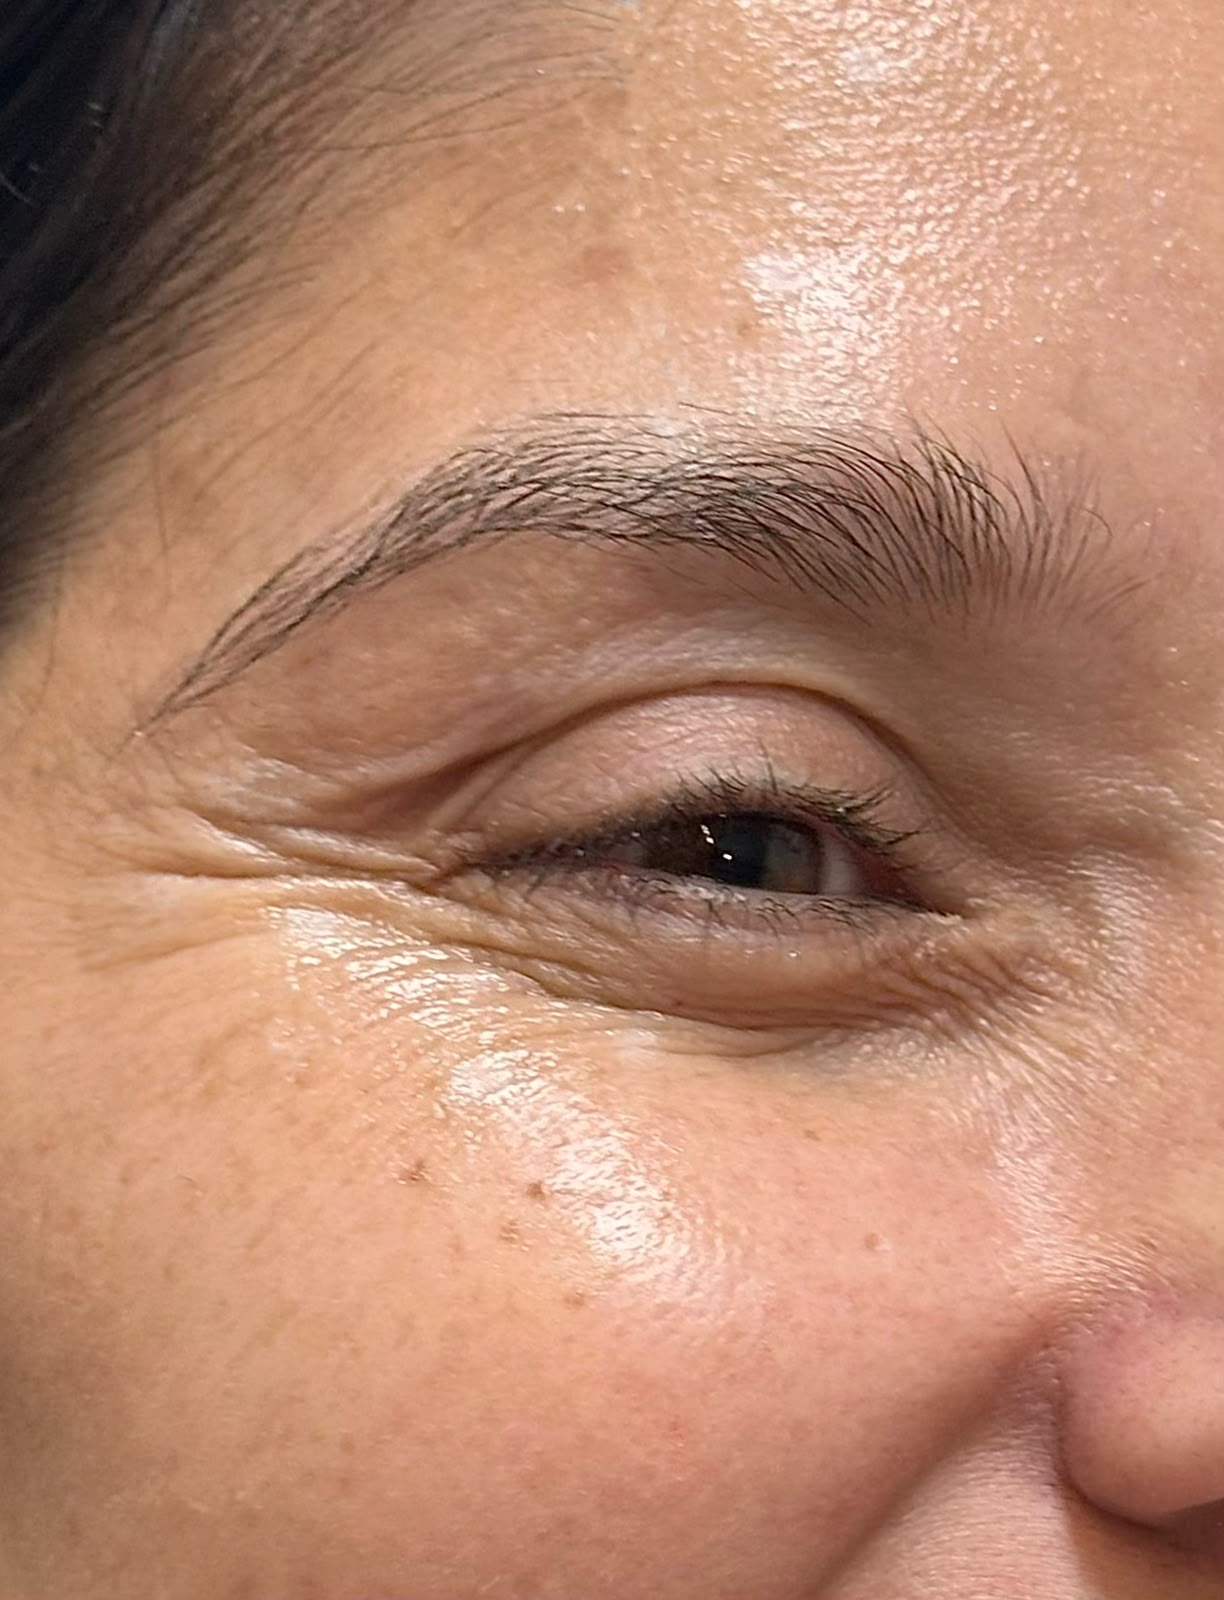
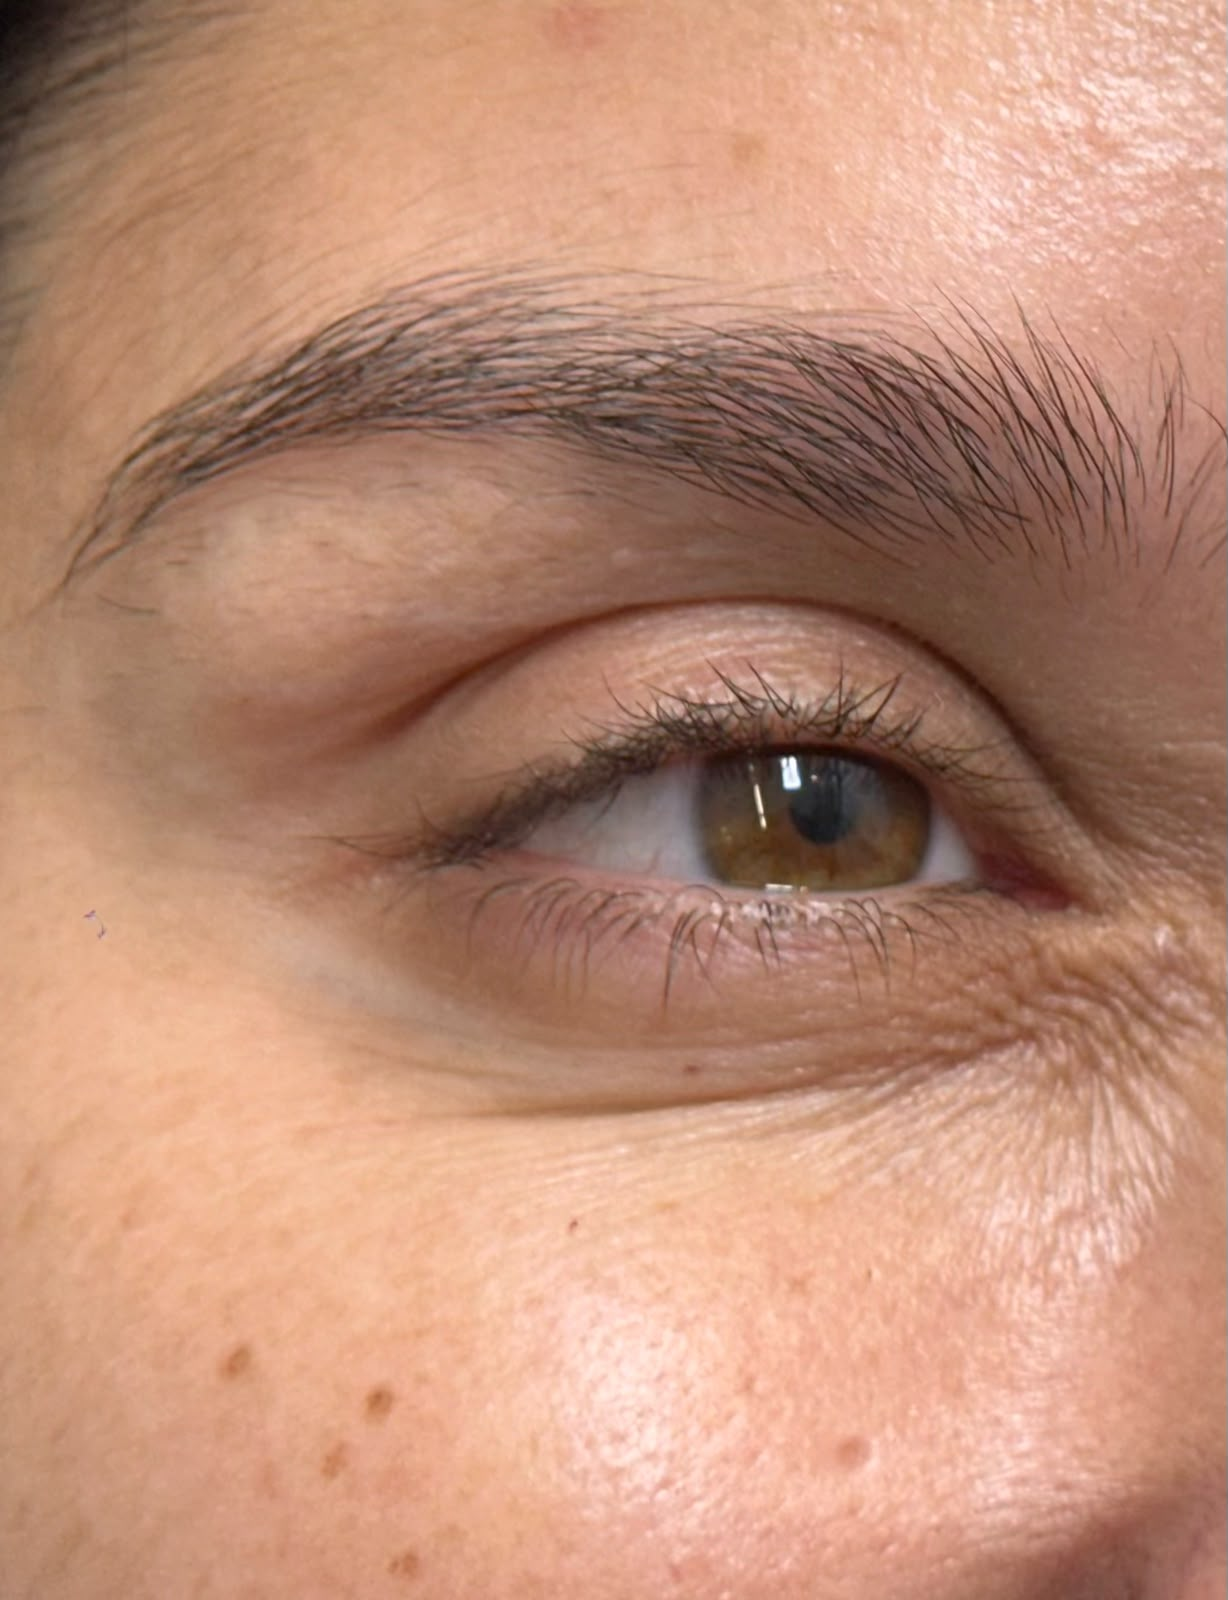
Ajusta ordem dos resultados

diff --git a/src/data/site.ts b/src/data/site.ts
@@ -277,6 +277,20 @@ export const beforeAfter: BeforeAfterCase[] = [
     layout: "portrait",
   },
   {
+    title: "Preenchimento Labial",
+    subtitle: "Volume e contorno delicados",
+    before: "/resultados/boca-antes.jpeg",
+    after: "/resultados/boca-depois.jpeg",
+    layout: "portrait",
+  },
+  {
+    title: "Toxina Botulínica",
+    subtitle: "Linhas da testa suavizadas",
+    before: "/resultados/toxina-antes.jpeg",
+    after: "/resultados/toxina-depois.jpeg",
+    layout: "portrait",
+  },
+  {
     title: "Tratamento de Olheiras",
     subtitle: "Área dos olhos descansada",
     before: "/resultados/olheiras-antes.jpeg",
@@ -305,25 +319,11 @@ export const beforeAfter: BeforeAfterCase[] = [
     layout: "portrait",
   },
   {
-    title: "Preenchimento Labial",
-    subtitle: "Volume e contorno delicados",
-    before: "/resultados/boca-antes.jpeg",
-    after: "/resultados/boca-depois.jpeg",
-    layout: "portrait",
-  },
-  {
     title: "Tecnologia HIFU",
     subtitle: "Rugas do olhar suavizadas",
     before: "/resultados/hifu-antes.jpeg",
     after: "/resultados/hifu-depois.jpeg",
     layout: "square",
-  },
-  {
-    title: "Toxina Botulínica",
-    subtitle: "Linhas da testa suavizadas",
-    before: "/resultados/toxina-antes.jpeg",
-    after: "/resultados/toxina-depois.jpeg",
-    layout: "wide",
   },
 ];
 
